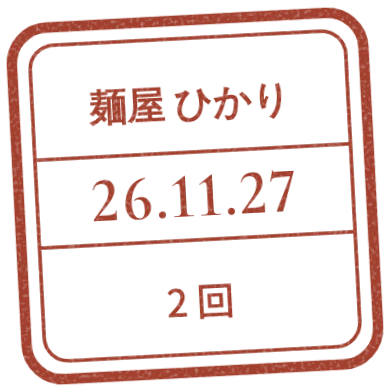
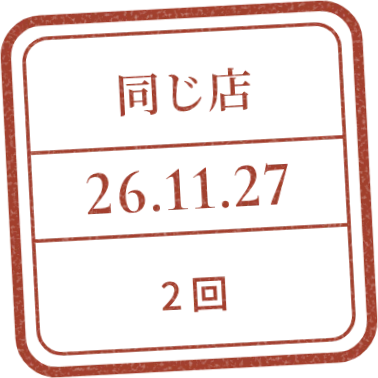
店の実績の印は、いちばん上の欄を「同じ店」で固定する
- 店ごとの回数の実績をやめたのに合わせ、角の印を「店の実績」の形にする
- 店の名前は印に入れず、印の下の文字に出す (作り手の判断)
- 実績のタブ、トースト、スライドの印の画像を差し替える。外した案は history.md に残す

Claude-Session: https://claude.ai/code/session_01YUQqLJP5HrrJYirxhUtHjp

diff --git a/docs/design/screens/index.html b/docs/design/screens/index.html
@@ -286,12 +286,12 @@ img { display: block; object-fit: cover; background: var(--surface); border-radi
       <div class="st"><svg aria-hidden="true" data-stamp="on" data-shape="oval" data-top="家ごはん" data-date="26.11.02" data-bot="はじめて" data-rot="3"></svg><div class="nm m">本日の店:<br>わが家</div><div class="cd">11/02</div></div>
       <div class="st off"><svg aria-hidden="true" data-stamp="secret"></svg><div class="nm m">シークレット</div><div class="cd">あと 3 個</div></div>
     </div>
-    <div class="hsec"><b class="m">積み重ね</b><span>種類は丸、店は角</span></div>
+    <div class="hsec"><b class="m">積み重ね</b><span>種類は丸、店の実績は角</span></div>
     <div class="stamps">
       <div class="st"><svg aria-hidden="true" data-stamp="on" data-shape="circle" data-top="コーヒー" data-date="26.11.28" data-bot="5 回" data-rot="-5"></svg><div class="nm m">コーヒーに<br>呼ばれている</div><div class="cd">5 回 · 11/28</div></div>
       <div class="st"><svg aria-hidden="true" data-stamp="on" data-shape="circle" data-top="日本酒" data-date="26.11.14" data-bot="3 回" data-rot="4"></svg><div class="nm m">日本酒、<br>またしても</div><div class="cd">3 回 · 11/14</div></div>
       <div class="st"><svg aria-hidden="true" data-stamp="on" data-shape="circle" data-top="ラーメン" data-date="26.11.27" data-bot="2 回" data-rot="-2"></svg><div class="nm m">ラーメン、<br>ふたたび</div><div class="cd">2 回 · 11/27</div></div>
-      <div class="st"><svg aria-hidden="true" data-stamp="on" data-shape="square" data-top="麺屋 ひかり" data-date="26.11.28" data-bot="2 回" data-rot="3"></svg><div class="nm m">二度あることは</div><div class="cd">2 回 · 11/28</div></div>
+      <div class="st"><svg aria-hidden="true" data-stamp="on" data-shape="square" data-top="同じ店" data-date="26.11.28" data-bot="2 回" data-rot="3"></svg><div class="nm m">二度あることは</div><div class="cd">麺屋 ひかり<br>2 回 · 11/28</div></div>
       <div class="st off"><svg aria-hidden="true" data-stamp="off" data-shape="circle" data-top="ワイン" data-bot="1 / 2" data-p="0.5"></svg><div class="nm m">ワイン、<br>ふたたび</div><div class="cd">1 / 2 回</div></div>
       <div class="st off"><svg aria-hidden="true" data-stamp="off" data-shape="circle" data-top="パン" data-bot="2 / 3" data-p="0.67"></svg><div class="nm m">パン、<br>またしても</div><div class="cd">2 / 3 回</div></div>
     </div>
@@ -320,7 +320,7 @@ img { display: block; object-fit: cover; background: var(--surface); border-radi
   <div class="toast glass">
     <div class="r1"><div class="t">残しました <span>· 麺屋 ひかり</span></div><div class="btns"><span>直す</span><span class="sub">取り消す</span></div></div>
     <hr>
-    <div class="r2"><svg aria-hidden="true" class="mini" data-stamp="on" data-shape="square" data-top="麺屋 ひかり" data-date="26.11.28" data-bot="2 回" data-rot="4"></svg><div><div class="lab">実績を解除</div><div class="nm m">二度あることは</div><div class="cd">麺屋 ひかり で 2 回記録しました</div></div></div>
+    <div class="r2"><svg aria-hidden="true" class="mini" data-stamp="on" data-shape="square" data-top="同じ店" data-date="26.11.28" data-bot="2 回" data-rot="4"></svg><div><div class="lab">実績を解除</div><div class="nm m">二度あることは</div><div class="cd">麺屋 ひかり で 2 回記録しました</div></div></div>
   </div>
   <div class="fab"><svg aria-hidden="true"><use href="#i-plus"/></svg></div>
   <div class="tabbar glass" data-tabs="0"></div><div class="homebar"></div>
@@ -341,7 +341,7 @@ img { display: block; object-fit: cover; background: var(--surface); border-radi
   <div id="stamps-row" style="display:flex;gap:48px;align-items:center;padding:8px 12px;color:var(--ink)">
     <div id="stamp-ink" style="display:inline-flex;padding:6px"><svg aria-hidden="true" data-stamp="ink" data-date="26.11.28" data-rot="-6" style="width:200px;height:200px"></svg></div>
     <div id="stamp-kind" style="display:inline-flex;padding:6px"><svg aria-hidden="true" data-stamp="on" data-shape="circle" data-top="ウイスキー" data-date="26.11.28" data-bot="2 回" data-rot="5" style="width:200px;height:200px"></svg></div>
-    <div id="stamp-shop" style="display:inline-flex;padding:6px"><svg aria-hidden="true" data-stamp="on" data-shape="square" data-top="麺屋 ひかり" data-date="26.11.27" data-bot="2 回" data-rot="-3" style="width:200px;height:200px"></svg></div>
+    <div id="stamp-shop" style="display:inline-flex;padding:6px"><svg aria-hidden="true" data-stamp="on" data-shape="square" data-top="同じ店" data-date="26.11.27" data-bot="2 回" data-rot="-3" style="width:200px;height:200px"></svg></div>
     <div id="stamp-land" style="display:inline-flex;padding:6px"><svg aria-hidden="true" data-stamp="on" data-shape="oval" data-top="京都府" data-date="26.10.03" data-bot="はじめて" data-rot="4" style="width:200px;height:200px"></svg></div>
     <div id="stamp-off" style="display:inline-flex;padding:6px"><svg aria-hidden="true" data-stamp="off" data-shape="circle" data-top="ワイン" data-bot="1 / 2" data-p="0.5" style="width:200px;height:200px"></svg></div>
   </div>

diff --git a/docs/design/deck/project/slides/stamp.html b/docs/design/deck/project/slides/stamp.html
@@ -1,5 +1,5 @@
 <section id="stamp">
-<img class="ph-r1 rise" style="--i:2" src="/_blob/6ec31f1a6f93c5f53c0454e4343fe242" alt="実績のタブ。朱の印が並ぶ">
+<img class="ph-r1 rise" style="--i:2" src="/_blob/20e6333c0eb25a7cf5edcc43207a9d42" alt="実績のタブ。朱の印が並ぶ">
 <div class="widecol" style="width:1180px">
 <div class="head">
 <p class="eyebrow">STAMP</p>
@@ -8,7 +8,7 @@
 <div class="stamprow">
 <div class="stampcell"><img class="stampimg press" src="/_blob/2ebd97f344e6683e697a67bf16ebd7d3" alt="墨の日付印"><p class="stampcap">墨の日付印<br>残したとき</p></div>
 <div class="stampcell"><img class="stampimg" src="/_blob/2f20fe4124af8c16e556dd50565768c1" alt="丸い朱の印 (ウイスキー 2 回)"><p class="stampcap">丸<br>種類</p></div>
-<div class="stampcell"><img class="stampimg" src="/_blob/7710bbd5f7fd70534bf706e47948318d" alt="角の朱の印 (麺屋 ひかり 2 回)"><p class="stampcap">角<br>店</p></div>
+<div class="stampcell"><img class="stampimg" src="/_blob/14246258118eebee6ee98305ad2337a7" alt="角の朱の印 (同じ店 2 回)"><p class="stampcap">角<br>店の実績</p></div>
 <div class="stampcell"><img class="stampimg" src="/_blob/b9fb62ac55c1af013a81220ef7b56a29" alt="小判の朱の印 (京都府 はじめて)"><p class="stampcap">小判<br>土地と場面</p></div>
 <div class="stampcell"><img class="stampimg" src="/_blob/c9c0fd4508a7dbf49ce586f61b6aff2e" alt="まだ解除していない枠 (ワイン 1 / 2)"><p class="stampcap">まだ<br>朱の輪で進み具合</p></div>
 </div>

diff --git a/docs/design/deck/project/slides/keep.html b/docs/design/deck/project/slides/keep.html
@@ -17,7 +17,7 @@
 <div class="item"><p class="it">夜だけ → 明るい紙面と暗い紙面の 2 つ</p></div>
 <div class="item"><p class="it">金 → 紙面ごとに濃さを変え、操作と順位に絞る</p></div>
 <div class="item"><p class="it">しっぽり明朝・Noto Sans JP → OS のヒラギノ</p></div>
-<div class="item"><p class="it">地酒図鑑 → 種類は丸、店は角、土地は小判の印</p></div>
+<div class="item"><p class="it">地酒図鑑 → 種類は丸、店の実績は角、土地は小判の印</p></div>
 <div class="item"><p class="it">一覧 → 帳簿の組み方 (左に日付の欄)</p></div>
 </div>
 </div>

diff --git a/docs/design/deck/project/slides/touch.html b/docs/design/deck/project/slides/touch.html
@@ -1,5 +1,5 @@
 <section id="touch" class="night">
-<img class="ph-r1 rise" style="--i:1" src="/_blob/a4ecfdf8b0c295ae07ab288b3447fb8f" alt="残した直後のトースト (暗い紙面)">
+<img class="ph-r1 rise" style="--i:1" src="/_blob/0f83acf1bc7d7a076a5a4e6b718bd186" alt="残した直後のトースト (暗い紙面)">
 <div class="widecol" style="width:1180px">
 <div class="head">
 <p class="eyebrow">TOUCH</p>

diff --git a/docs/design/direction.md b/docs/design/direction.md
@@ -19,15 +19,16 @@
 
 ## 帳面の作法
 
-| 作法           | 形                                                                                                  | どこで                      |
-| -------------- | --------------------------------------------------------------------------------------------------- | --------------------------- |
-| 日付の欄       | 左に大きな日付、右に記録。罫で 1 行ずつ (帳簿の組み方)                                              | ホーム、食事の詳細          |
-| 日付印         | 残したとき、その日の欄に墨の印を押す。形は帳簿に押す日付印 (データ印: 名前・日付の帯・下の段)       | ホーム                      |
-| 朱印           | 実績は朱の印。種類は丸、店は角、土地と場面は小判。まだの実績も同じ形で、朱の輪で進み具合を出す      | 実績のタブ、トースト        |
-| 余白の書き込み | 記録から読み取った好みは、左に細い線を引いた注釈にする。AI を光らせず、出どころは「記録から」と書く | 好みのことば (置き場は未定) |
-| 綴じる         | 1 年の帳面を綴じて見返す                                                                            | 年間ふりかえり (あとで)     |
+| 作法           | 形                                                                                                   | どこで                      |
+| -------------- | ---------------------------------------------------------------------------------------------------- | --------------------------- |
+| 日付の欄       | 左に大きな日付、右に記録。罫で 1 行ずつ (帳簿の組み方)                                               | ホーム、食事の詳細          |
+| 日付印         | 残したとき、その日の欄に墨の印を押す。形は帳簿に押す日付印 (データ印: 名前・日付の帯・下の段)        | ホーム                      |
+| 朱印           | 実績は朱の印。種類は丸、店の実績は角、土地と場面は小判。まだの実績も同じ形で、朱の輪で進み具合を出す | 実績のタブ、トースト        |
+| 余白の書き込み | 記録から読み取った好みは、左に細い線を引いた注釈にする。AI を光らせず、出どころは「記録から」と書く  | 好みのことば (置き場は未定) |
+| 綴じる         | 1 年の帳面を綴じて見返す                                                                             | 年間ふりかえり (あとで)     |
 
 - 印は飾り。名前・回数・日付は、印の下に文字で出す (大きな文字と読み上げのため)
+- 印のいちばん上の欄は、何を数えたか (種類の名前、都道府県の名前)。「同じ店に N 回」は「同じ店」で固定し、店の名前は印に入れず、印の下の文字に出す (2026-11-28、作り手の判断)
 - 印は写真に重ねない (写真に手を加えない)
 
 ## 明暗
@@ -108,6 +109,7 @@
 ## 決めていないこと
 
 - ヒラギノ明朝 (W3) が、品名の大きさで細すぎないか。実機で、カタカナの多い品名を並べて見る。細い所は W6 を試す
-- データ印のかすれの出し方 (react-native-svg は feTurbulence を使えないので、Skia か重ねる画像)。長い店名を印に入れるときの省き方
+- データ印のかすれの出し方 (react-native-svg は feTurbulence を使えないので、Skia か重ねる画像)
+- 数を数える実績 (N 軒、N 種類、N の都道府県) の、印のいちばん上の欄の言葉
 - 画面イメージで決まった、UX にない見た目 (日付の欄の組み方など) は、UX と一緒に詰める
 - 文書をまたぐもの (残りの画面、ふだんの写真での見え方、空の画面、マップ) は [`../open-questions.md`](../open-questions.md) の「デザイン」

diff --git a/docs/design/tokens.md b/docs/design/tokens.md
@@ -137,7 +137,7 @@
 | `stampToast`       | 38          | `shu` | トーストの実績の印     |
 | `stampAchievement` | 92          | `shu` | 実績のタブ             |
 
-- 形は 3 つ (丸 = 種類、角 = 店、小判 = 土地と場面)。線の太さは、印の大きさに対して外の線 2.6%、内の線 0.9%
+- 形は 3 つ (丸 = 種類、角 = 店の実績、小判 = 土地と場面)。いちばん上の欄に店の名前は入れない ([`direction.md`](direction.md) の「帳面の作法」)。線の太さは、印の大きさに対して外の線 2.6%、内の線 0.9%
 - 押したように、-10° から +6° の間で少し傾ける
 - かすれは画像を重ねて出す (react-native-svg は feTurbulence を使えない)
 
